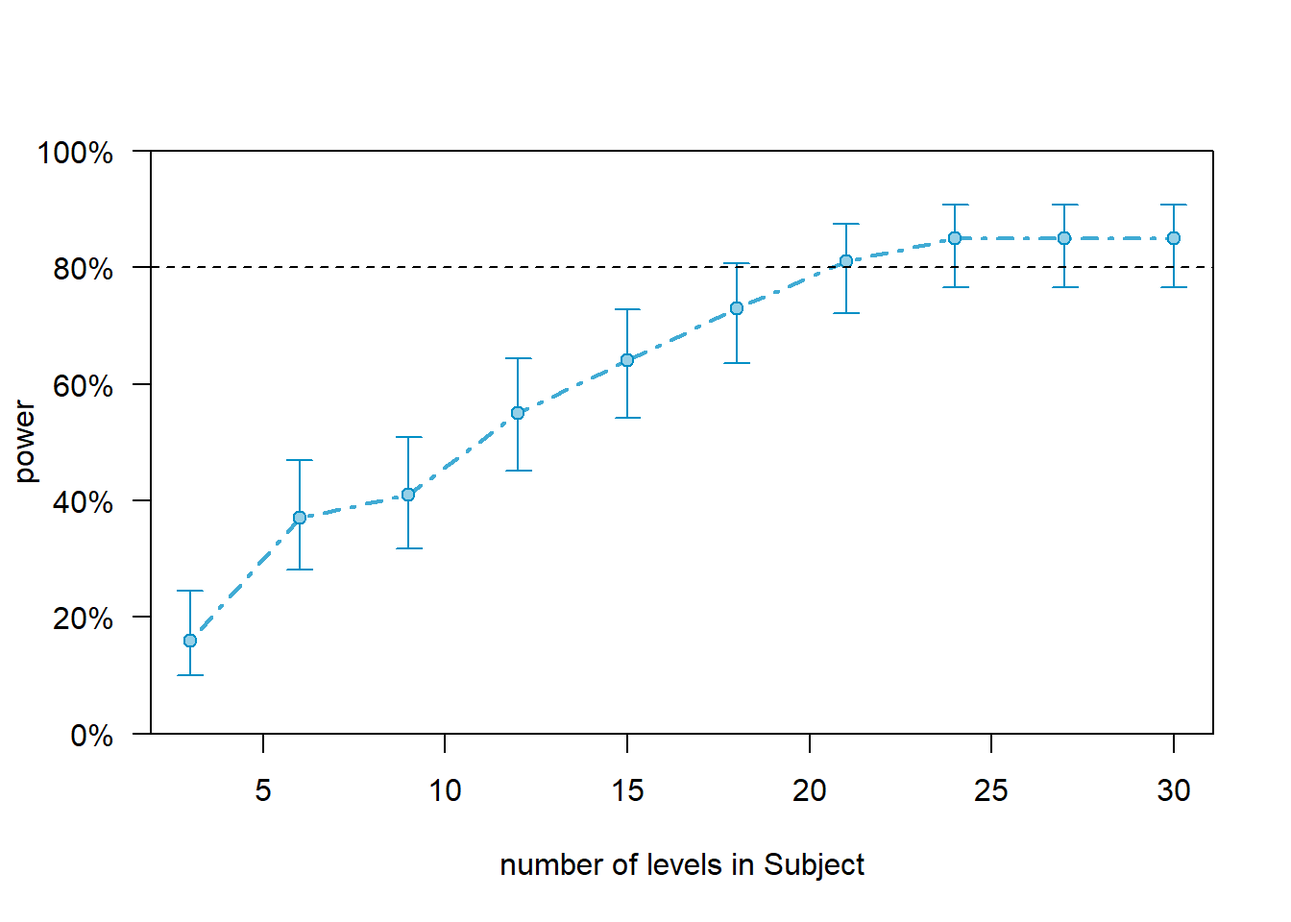
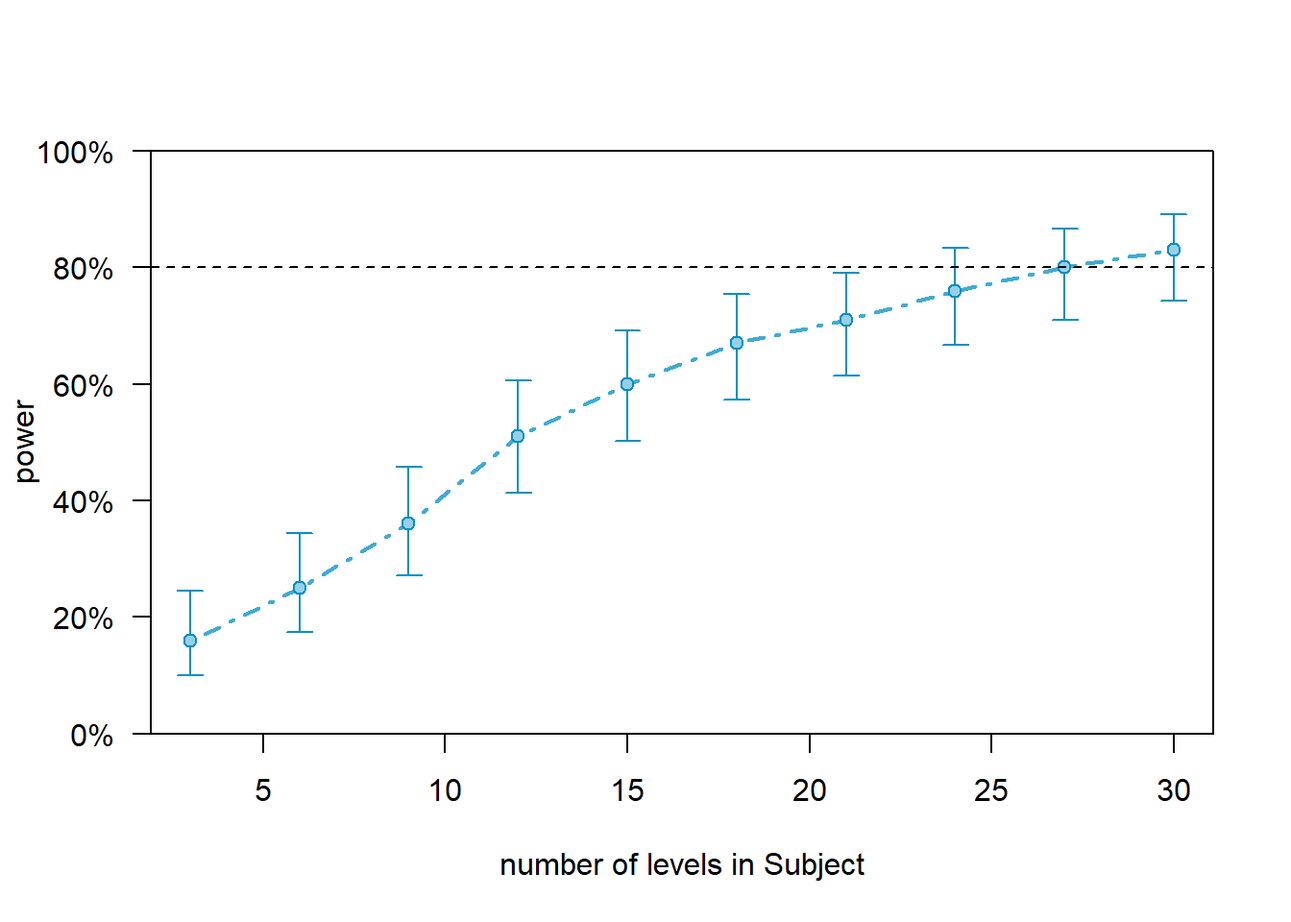
pwr and opening updates

diff --git a/pwr.html b/pwr.html
@@ -14,7 +14,7 @@
 
 <meta name="author" content="Martin Schweinberger" />
 
-<meta name="date" content="2021-04-29" />
+<meta name="date" content="2021-04-30" />
 
 <title>Power Analysis in R</title>
 
@@ -558,7 +558,7 @@ div.tocify {
 
 <h1 class="title toc-ignore">Power Analysis in R</h1>
 <h4 class="author">Martin Schweinberger</h4>
-<h4 class="date">2021-04-29</h4>
+<h4 class="date">2021-04-30</h4>
 
 </div>
 
@@ -602,7 +602,7 @@ div.tocify {
 </div>
 <div id="preparation-and-session-set-up" class="section level2 unnumbered">
 <h2>Preparation and session set up</h2>
-<p>This tutorial is based on R. If you have not installed R or are new to it, you will find an introduction to and more information how to use R <a href="https://slcladal.github.io/intror.html">here</a>. For this tutorials, we need to install certain <em>packages</em> from an R <em>library</em> so that the scripts shown below are executed without errors. Before turning to the code below, please install the packages by running the code below this paragraph. If you have already installed the packages mentioned below, then you can skip ahead and ignore this section. To install the necessary packages, simply run the following code - it may take some time (between 1 and 5 minutes to install all of the libraries so you do not need to worry if it takes some time).</p>
+<p>This tutorial is based on R. If you have not installed R or are new to it, you will find an introduction to and more information how to use R <a href="https://slcladal.github.io/intror.html">here</a>. For this tutorials, we need to install certain <em>packages</em> into the R <em>library</em> on your computer so that the scripts shown below are executed without errors. Before turning to the code below, please install the packages by running the code below this paragraph. If you have already installed the packages mentioned below, then you can skip ahead and ignore this section. To install the necessary packages, simply run the following code - it may take some time (between 1 and 5 minutes to install all of the libraries so you do not need to worry if it takes some time).</p>
 <pre class="r"><code># set options
 options(stringsAsFactors = F)         # no automatic data transformation
 options(&quot;scipen&quot; = 100, &quot;digits&quot; = 4) # suppress math annotation
@@ -737,8 +737,8 @@ simdat &lt;- data.frame(
   dplyr::mutate_if(is.character, factor) %&gt;%
   dplyr::rename(AOI = 4)</code></pre>
 <p>The data looks like this.</p>
-<div id="htmlwidget-9e1553b7c56c5b3041f2" style="width:100%;height:auto;" class="datatables html-widget"></div>
-<script type="application/json" data-for="htmlwidget-9e1553b7c56c5b3041f2">{"x":{"filter":"none","caption":"<caption>Overview of the data set.<\/caption>","data":[["Sub1","Sub1","Sub1","Sub1","Sub1","Sub1","Sub1","Sub1","Sub1","Sub1","Sub2","Sub2","Sub2","Sub2","Sub2","Sub2","Sub2","Sub2","Sub2","Sub2","Sub3","Sub3","Sub3","Sub3","Sub3","Sub3","Sub3","Sub3","Sub3","Sub3","Sub4","Sub4","Sub4","Sub4","Sub4","Sub4","Sub4","Sub4","Sub4","Sub4","Sub5","Sub5","Sub5","Sub5","Sub5","Sub5","Sub5","Sub5","Sub5","Sub5","Sub6","Sub6","Sub6","Sub6","Sub6","Sub6","Sub6","Sub6","Sub6","Sub6","Sub7","Sub7","Sub7","Sub7","Sub7","Sub7","Sub7","Sub7","Sub7","Sub7","Sub8","Sub8","Sub8","Sub8","Sub8","Sub8","Sub8","Sub8","Sub8","Sub8","Sub9","Sub9","Sub9","Sub9","Sub9","Sub9","Sub9","Sub9","Sub9","Sub9","Sub10","Sub10","Sub10","Sub10","Sub10","Sub10","Sub10","Sub10","Sub10","Sub10","Sub1","Sub1","Sub1","Sub1","Sub1","Sub1","Sub1","Sub1","Sub1","Sub1","Sub2","Sub2","Sub2","Sub2","Sub2","Sub2","Sub2","Sub2","Sub2","Sub2","Sub3","Sub3","Sub3","Sub3","Sub3","Sub3","Sub3","Sub3","Sub3","Sub3","Sub4","Sub4","Sub4","Sub4","Sub4","Sub4","Sub4","Sub4","Sub4","Sub4","Sub5","Sub5","Sub5","Sub5","Sub5","Sub5","Sub5","Sub5","Sub5","Sub5","Sub6","Sub6","Sub6","Sub6","Sub6","Sub6","Sub6","Sub6","Sub6","Sub6","Sub7","Sub7","Sub7","Sub7","Sub7","Sub7","Sub7","Sub7","Sub7","Sub7","Sub8","Sub8","Sub8","Sub8","Sub8","Sub8","Sub8","Sub8","Sub8","Sub8","Sub9","Sub9","Sub9","Sub9","Sub9","Sub9","Sub9","Sub9","Sub9","Sub9","Sub10","Sub10","Sub10","Sub10","Sub10","Sub10","Sub10","Sub10","Sub10","Sub10"],["Control","Control","Control","Control","Control","Control","Control","Control","Control","Control","Control","Control","Control","Control","Control","Control","Control","Control","Control","Control","Control","Control","Control","Control","Control","Control","Control","Control","Control","Control","Control","Control","Control","Control","Control","Control","Control","Control","Control","Control","Control","Control","Control","Control","Control","Control","Control","Control","Control","Control","Control","Control","Control","Control","Control","Control","Control","Control","Control","Control","Control","Control","Control","Control","Control","Control","Control","Control","Control","Control","Control","Control","Control","Control","Control","Control","Control","Control","Control","Control","Control","Control","Control","Control","Control","Control","Control","Control","Control","Control","Control","Control","Control","Control","Control","Control","Control","Control","Control","Control","Test","Test","Test","Test","Test","Test","Test","Test","Test","Test","Test","Test","Test","Test","Test","Test","Test","Test","Test","Test","Test","Test","Test","Test","Test","Test","Test","Test","Test","Test","Test","Test","Test","Test","Test","Test","Test","Test","Test","Test","Test","Test","Test","Test","Test","Test","Test","Test","Test","Test","Test","Test","Test","Test","Test","Test","Test","Test","Test","Test","Test","Test","Test","Test","Test","Test","Test","Test","Test","Test","Test","Test","Test","Test","Test","Test","Test","Test","Test","Test","Test","Test","Test","Test","Test","Test","Test","Test","Test","Test","Test","Test","Test","Test","Test","Test","Test","Test","Test","Test"],["1","2","3","4","5","6","7","8","9","10","1","2","3","4","5","6","7","8","9","10","1","2","3","4","5","6","7","8","9","10","1","2","3","4","5","6","7","8","9","10","1","2","3","4","5","6","7","8","9","10","1","2","3","4","5","6","7","8","9","10","1","2","3","4","5","6","7","8","9","10","1","2","3","4","5","6","7","8","9","10","1","2","3","4","5","6","7","8","9","10","1","2","3","4","5","6","7","8","9","10","1","2","3","4","5","6","7","8","9","10","1","2","3","4","5","6","7","8","9","10","1","2","3","4","5","6","7","8","9","10","1","2","3","4","5","6","7","8","9","10","1","2","3","4","5","6","7","8","9","10","1","2","3","4","5","6","7","8","9","10","1","2","3","4","5","6","7","8","9","10","1","2","3","4","5","6","7","8","9","10","1","2","3","4","5","6","7","8","9","10","1","2","3","4","5","6","7","8","9","10"],["NotAOI","NotAOI","AOI","AOI","NotAOI","NotAOI","AOI","NotAOI","NotAOI","AOI","AOI","AOI","AOI","AOI","NotAOI","AOI","NotAOI","NotAOI","NotAOI","AOI","AOI","NotAOI","AOI","NotAOI","NotAOI","NotAOI","NotAOI","AOI","AOI","AOI","AOI","AOI","NotAOI","AOI","NotAOI","NotAOI","NotAOI","NotAOI","NotAOI","NotAOI","AOI","NotAOI","AOI","AOI","NotAOI","AOI","NotAOI","AOI","AOI","NotAOI","NotAOI","NotAOI","NotAOI","NotAOI","NotAOI","AOI","NotAOI","AOI","AOI","NotAOI","AOI","NotAOI","AOI","NotAOI","NotAOI","NotAOI","AOI","AOI","AOI","AOI","NotAOI","AOI","NotAOI","NotAOI","NotAOI","NotAOI","NotAOI","AOI","AOI","NotAOI","AOI","AOI","NotAOI","NotAOI","NotAOI","NotAOI","NotAOI","NotAOI","AOI","AOI","NotAOI","AOI","NotAOI","AOI","AOI","AOI","NotAOI","AOI","AOI","NotAOI","AOI","AOI","NotAOI","NotAOI","NotAOI","AOI","AOI","NotAOI","AOI","NotAOI","NotAOI","NotAOI","NotAOI","NotAOI","AOI","AOI","NotAOI","AOI","AOI","NotAOI","NotAOI","NotAOI","AOI","AOI","AOI","AOI","NotAOI","AOI","NotAOI","NotAOI","NotAOI","AOI","NotAOI","NotAOI","NotAOI","NotAOI","NotAOI","NotAOI","NotAOI","AOI","AOI","NotAOI","NotAOI","NotAOI","AOI","NotAOI","AOI","AOI","NotAOI","AOI","AOI","NotAOI","AOI","AOI","NotAOI","NotAOI","NotAOI","AOI","AOI","AOI","NotAOI","AOI","AOI","NotAOI","NotAOI","NotAOI","AOI","NotAOI","NotAOI","AOI","AOI","AOI","NotAOI","AOI","NotAOI","AOI","NotAOI","AOI","AOI","AOI","AOI","NotAOI","NotAOI","AOI","AOI","NotAOI","AOI","AOI","AOI","AOI","AOI","NotAOI","AOI","AOI","AOI","AOI","AOI","NotAOI","AOI","NotAOI"]],"container":"<table class=\"display\">\n  <thead>\n    <tr>\n      <th>Subject<\/th>\n      <th>Condition<\/th>\n      <th>Item<\/th>\n      <th>AOI<\/th>\n    <\/tr>\n  <\/thead>\n<\/table>","options":{"pageLength":10,"scrollX":true,"order":[],"autoWidth":false,"orderClasses":false}},"evals":[],"jsHooks":[]}</script>
+<div id="htmlwidget-5b7f6b2554b631cb2291" style="width:100%;height:auto;" class="datatables html-widget"></div>
+<script type="application/json" data-for="htmlwidget-5b7f6b2554b631cb2291">{"x":{"filter":"none","caption":"<caption>Overview of the data set.<\/caption>","data":[["Sub1","Sub1","Sub1","Sub1","Sub1","Sub1","Sub1","Sub1","Sub1","Sub1","Sub2","Sub2","Sub2","Sub2","Sub2","Sub2","Sub2","Sub2","Sub2","Sub2","Sub3","Sub3","Sub3","Sub3","Sub3","Sub3","Sub3","Sub3","Sub3","Sub3","Sub4","Sub4","Sub4","Sub4","Sub4","Sub4","Sub4","Sub4","Sub4","Sub4","Sub5","Sub5","Sub5","Sub5","Sub5","Sub5","Sub5","Sub5","Sub5","Sub5","Sub6","Sub6","Sub6","Sub6","Sub6","Sub6","Sub6","Sub6","Sub6","Sub6","Sub7","Sub7","Sub7","Sub7","Sub7","Sub7","Sub7","Sub7","Sub7","Sub7","Sub8","Sub8","Sub8","Sub8","Sub8","Sub8","Sub8","Sub8","Sub8","Sub8","Sub9","Sub9","Sub9","Sub9","Sub9","Sub9","Sub9","Sub9","Sub9","Sub9","Sub10","Sub10","Sub10","Sub10","Sub10","Sub10","Sub10","Sub10","Sub10","Sub10","Sub1","Sub1","Sub1","Sub1","Sub1","Sub1","Sub1","Sub1","Sub1","Sub1","Sub2","Sub2","Sub2","Sub2","Sub2","Sub2","Sub2","Sub2","Sub2","Sub2","Sub3","Sub3","Sub3","Sub3","Sub3","Sub3","Sub3","Sub3","Sub3","Sub3","Sub4","Sub4","Sub4","Sub4","Sub4","Sub4","Sub4","Sub4","Sub4","Sub4","Sub5","Sub5","Sub5","Sub5","Sub5","Sub5","Sub5","Sub5","Sub5","Sub5","Sub6","Sub6","Sub6","Sub6","Sub6","Sub6","Sub6","Sub6","Sub6","Sub6","Sub7","Sub7","Sub7","Sub7","Sub7","Sub7","Sub7","Sub7","Sub7","Sub7","Sub8","Sub8","Sub8","Sub8","Sub8","Sub8","Sub8","Sub8","Sub8","Sub8","Sub9","Sub9","Sub9","Sub9","Sub9","Sub9","Sub9","Sub9","Sub9","Sub9","Sub10","Sub10","Sub10","Sub10","Sub10","Sub10","Sub10","Sub10","Sub10","Sub10"],["Control","Control","Control","Control","Control","Control","Control","Control","Control","Control","Control","Control","Control","Control","Control","Control","Control","Control","Control","Control","Control","Control","Control","Control","Control","Control","Control","Control","Control","Control","Control","Control","Control","Control","Control","Control","Control","Control","Control","Control","Control","Control","Control","Control","Control","Control","Control","Control","Control","Control","Control","Control","Control","Control","Control","Control","Control","Control","Control","Control","Control","Control","Control","Control","Control","Control","Control","Control","Control","Control","Control","Control","Control","Control","Control","Control","Control","Control","Control","Control","Control","Control","Control","Control","Control","Control","Control","Control","Control","Control","Control","Control","Control","Control","Control","Control","Control","Control","Control","Control","Test","Test","Test","Test","Test","Test","Test","Test","Test","Test","Test","Test","Test","Test","Test","Test","Test","Test","Test","Test","Test","Test","Test","Test","Test","Test","Test","Test","Test","Test","Test","Test","Test","Test","Test","Test","Test","Test","Test","Test","Test","Test","Test","Test","Test","Test","Test","Test","Test","Test","Test","Test","Test","Test","Test","Test","Test","Test","Test","Test","Test","Test","Test","Test","Test","Test","Test","Test","Test","Test","Test","Test","Test","Test","Test","Test","Test","Test","Test","Test","Test","Test","Test","Test","Test","Test","Test","Test","Test","Test","Test","Test","Test","Test","Test","Test","Test","Test","Test","Test"],["1","2","3","4","5","6","7","8","9","10","1","2","3","4","5","6","7","8","9","10","1","2","3","4","5","6","7","8","9","10","1","2","3","4","5","6","7","8","9","10","1","2","3","4","5","6","7","8","9","10","1","2","3","4","5","6","7","8","9","10","1","2","3","4","5","6","7","8","9","10","1","2","3","4","5","6","7","8","9","10","1","2","3","4","5","6","7","8","9","10","1","2","3","4","5","6","7","8","9","10","1","2","3","4","5","6","7","8","9","10","1","2","3","4","5","6","7","8","9","10","1","2","3","4","5","6","7","8","9","10","1","2","3","4","5","6","7","8","9","10","1","2","3","4","5","6","7","8","9","10","1","2","3","4","5","6","7","8","9","10","1","2","3","4","5","6","7","8","9","10","1","2","3","4","5","6","7","8","9","10","1","2","3","4","5","6","7","8","9","10","1","2","3","4","5","6","7","8","9","10"],["NotAOI","NotAOI","NotAOI","AOI","NotAOI","AOI","AOI","NotAOI","AOI","NotAOI","NotAOI","NotAOI","NotAOI","NotAOI","NotAOI","AOI","AOI","AOI","NotAOI","AOI","NotAOI","AOI","AOI","AOI","NotAOI","NotAOI","NotAOI","NotAOI","NotAOI","NotAOI","AOI","NotAOI","AOI","NotAOI","AOI","NotAOI","NotAOI","NotAOI","NotAOI","NotAOI","AOI","AOI","AOI","NotAOI","AOI","AOI","NotAOI","AOI","NotAOI","AOI","NotAOI","NotAOI","AOI","NotAOI","NotAOI","NotAOI","NotAOI","AOI","AOI","NotAOI","NotAOI","AOI","AOI","AOI","AOI","NotAOI","AOI","NotAOI","AOI","AOI","NotAOI","AOI","NotAOI","NotAOI","AOI","NotAOI","AOI","AOI","AOI","AOI","AOI","NotAOI","AOI","NotAOI","AOI","AOI","NotAOI","AOI","NotAOI","NotAOI","AOI","NotAOI","NotAOI","AOI","NotAOI","NotAOI","AOI","AOI","NotAOI","NotAOI","NotAOI","NotAOI","AOI","AOI","NotAOI","AOI","NotAOI","AOI","NotAOI","AOI","NotAOI","NotAOI","NotAOI","NotAOI","NotAOI","NotAOI","AOI","AOI","AOI","NotAOI","NotAOI","NotAOI","NotAOI","AOI","AOI","AOI","NotAOI","AOI","AOI","NotAOI","AOI","NotAOI","NotAOI","AOI","NotAOI","AOI","AOI","AOI","NotAOI","AOI","AOI","AOI","NotAOI","NotAOI","NotAOI","NotAOI","AOI","AOI","NotAOI","AOI","AOI","AOI","NotAOI","NotAOI","AOI","AOI","AOI","AOI","AOI","AOI","AOI","AOI","AOI","NotAOI","AOI","NotAOI","AOI","AOI","AOI","AOI","AOI","AOI","AOI","AOI","NotAOI","AOI","AOI","AOI","AOI","AOI","AOI","AOI","AOI","AOI","NotAOI","AOI","NotAOI","AOI","NotAOI","AOI","AOI","NotAOI","AOI","NotAOI","AOI","AOI","AOI","NotAOI","NotAOI","NotAOI"]],"container":"<table class=\"display\">\n  <thead>\n    <tr>\n      <th>Subject<\/th>\n      <th>Condition<\/th>\n      <th>Item<\/th>\n      <th>AOI<\/th>\n    <\/tr>\n  <\/thead>\n<\/table>","options":{"pageLength":10,"scrollX":true,"order":[],"autoWidth":false,"orderClasses":false}},"evals":[],"jsHooks":[]}</script>
 </div>
 </div>
 <div id="post-hoc-power-analysis" class="section level1">
@@ -763,26 +763,28 @@ summary(m1)</code></pre>
 ##    Data: simdat
 ## 
 ##      AIC      BIC   logLik deviance df.resid 
-##    284.5    297.7   -138.2    276.5      196 
+##    279.0    292.1   -135.5    271.0      196 
 ## 
 ## Scaled residuals: 
 ##     Min      1Q  Median      3Q     Max 
-## -1.0835 -0.9608  0.9230  0.9230  1.0408 
+## -1.2267 -0.8697 -0.6901  0.9611  1.4491 
 ## 
 ## Random effects:
 ##  Groups  Name        Variance  Std.Dev. 
-##  Subject (Intercept) 3.972e-14 1.993e-07
-##  Item    (Intercept) 0.000e+00 0.000e+00
+##  Subject (Intercept) 9.692e-02 3.113e-01
+##  Item    (Intercept) 1.063e-10 1.031e-05
 ## Number of obs: 200, groups:  Subject, 10; Item, 10
 ## 
 ## Fixed effects:
-##               Estimate Std. Error z value Pr(&gt;|z|)
-## (Intercept)     0.1603     0.2006   0.799    0.424
-## ConditionTest  -0.2404     0.2834  -0.848    0.396
+##               Estimate Std. Error z value Pr(&gt;|z|)  
+## (Intercept)     0.1640     0.2257   0.727   0.4674  
+## ConditionTest  -0.6222     0.2909  -2.139   0.0324 *
+## ---
+## Signif. codes:  0 &#39;***&#39; 0.001 &#39;**&#39; 0.01 &#39;*&#39; 0.05 &#39;.&#39; 0.1 &#39; &#39; 1
 ## 
 ## Correlation of Fixed Effects:
 ##             (Intr)
-## ConditinTst -0.708
+## ConditinTst -0.629
 ## optimizer (Nelder_Mead) convergence code: 0 (OK)
 ## boundary (singular) fit: see ?isSingular</code></pre>
 <p>We now check the effect sizes of the predictors in the model. We can do this by displaying the results of the model using the <code>tab_model</code> function from the <code>sjPlot</code> package.</p>
@@ -818,13 +820,13 @@ p
 (Intercept)
 </td>
 <td style=" padding:0.2cm; text-align:left; vertical-align:top; text-align:center;  ">
-1.17
+1.18
 </td>
 <td style=" padding:0.2cm; text-align:left; vertical-align:top; text-align:center;  ">
-0.79 – 1.74
+0.76 – 1.83
 </td>
 <td style=" padding:0.2cm; text-align:left; vertical-align:top; text-align:center;  ">
-0.424
+0.467
 </td>
 </tr>
 <tr>
@@ -832,13 +834,13 @@ p
 Condition [Test]
 </td>
 <td style=" padding:0.2cm; text-align:left; vertical-align:top; text-align:center;  ">
-0.79
+0.54
 </td>
 <td style=" padding:0.2cm; text-align:left; vertical-align:top; text-align:center;  ">
-0.45 – 1.37
+0.30 – 0.95
 </td>
 <td style=" padding:0.2cm; text-align:left; vertical-align:top; text-align:center;  ">
-0.396
+<strong>0.032</strong>
 </td>
 </tr>
 <tr>
@@ -858,7 +860,7 @@ Random Effects
 τ<sub>00</sub> <sub>Subject</sub>
 </td>
 <td style=" padding:0.2cm; text-align:left; vertical-align:top; padding-top:0.1cm; padding-bottom:0.1cm; text-align:left;" colspan="3">
-0.00
+0.10
 </td>
 <tr>
 <td style=" padding:0.2cm; text-align:left; vertical-align:top; text-align:left; padding-top:0.1cm; padding-bottom:0.1cm;">
@@ -866,6 +868,13 @@ Random Effects
 </td>
 <td style=" padding:0.2cm; text-align:left; vertical-align:top; padding-top:0.1cm; padding-bottom:0.1cm; text-align:left;" colspan="3">
 0.00
+</td>
+<tr>
+<td style=" padding:0.2cm; text-align:left; vertical-align:top; text-align:left; padding-top:0.1cm; padding-bottom:0.1cm;">
+ICC
+</td>
+<td style=" padding:0.2cm; text-align:left; vertical-align:top; padding-top:0.1cm; padding-bottom:0.1cm; text-align:left;" colspan="3">
+0.03
 </td>
 <tr>
 <td style=" padding:0.2cm; text-align:left; vertical-align:top; text-align:left; padding-top:0.1cm; padding-bottom:0.1cm;">
@@ -894,7 +903,7 @@ Observations
 Marginal R<sup>2</sup> / Conditional R<sup>2</sup>
 </td>
 <td style=" padding:0.2cm; text-align:left; vertical-align:top; padding-top:0.1cm; padding-bottom:0.1cm; text-align:left;" colspan="3">
-0.004 / NA
+0.028 / 0.056
 </td>
 </tr>
 </table>
@@ -914,10 +923,10 @@ rsim0 &lt;- powerSim(m1, fixed(&quot;ConditionTest&quot;, &quot;z&quot;), nsim=1
 <pre class="r"><code># inspect results
 rsim0</code></pre>
 <pre><code>## Power for predictor &#39;ConditionTest&#39;, (95% confidence interval):
-##       18.00% (11.03, 26.95)
+##       59.00% (48.71, 68.74)
 ## 
 ## Test: z-test
-##       Effect size for ConditionTest is -0.24
+##       Effect size for ConditionTest is -0.62
 ## 
 ## Based on 100 simulations, (1 warning, 0 errors)
 ## alpha = 0.05, nrow = 200
@@ -925,21 +934,26 @@ rsim0</code></pre>
 ## Time elapsed: 0 h 0 m 18 s
 ## 
 ## nb: result might be an observed power calculation</code></pre>
-<p>The results of the power analysis show that, given the data at hand, the model would have detected the effect of Conidition:Test with a probability of 18 percent. However, and as stated above, the results of such post-hoc power calculations (where the target effect size comes from the data) give misleading results (<span class="citation">Hoenig and Heisey (<a href="#ref-hoenig2001abuse" role="doc-biblioref">2001</a>)</span>) and should thus be treated with extreme care!</p>
+<p>The results of the power analysis show that, given the data at hand, the model would have detected the effect of Conidition:Test with a probability of 59 percent. However, and as stated above, the results of such post-hoc power calculations (where the target effect size comes from the data) give misleading results (<span class="citation">Hoenig and Heisey (<a href="#ref-hoenig2001abuse" role="doc-biblioref">2001</a>)</span>) and should thus be treated with extreme care!</p>
 </div>
 <div id="power-analysis-of-set-effects" class="section level1">
 <h1><span class="header-section-number">2</span> Power Analysis of Set Effects</h1>
-<p>While the effect of Condidition:Test is rather small (given the small number of subjects and items and given the small effect size, we would thus not be surprised that out model is not very accurate in detecting this effect), the target accuracy of finding an effect that one is interested in is commonly 80 percent (see <span class="citation">Field, Miles, and Field (<a href="#ref-field2012discovering" role="doc-biblioref">2012</a>)</span>, <span class="citation">Green and MacLeod (<a href="#ref-green2016simr" role="doc-biblioref">2016</a>)</span>). The accuracy (i.e., the probability of finding an effect) depends on three main factors:</p>
+<p>While the effect of Condidition:Test is rather small (given the small number of subjects and items, the small effect size, and the variability in the effect and we would thus not be surprised that out model is not very accurate in detecting this effect), the target accuracy of finding an effect that one is interested in is commonly 80 percent (see <span class="citation">Field, Miles, and Field (<a href="#ref-field2012discovering" role="doc-biblioref">2012</a>)</span>, <span class="citation">Green and MacLeod (<a href="#ref-green2016simr" role="doc-biblioref">2016</a>)</span>). The accuracy (i.e., the probability of finding an effect) depends on three main factors:</p>
 <ul>
 <li>the size of the effect (bigger effects are easier to detect)</li>
 <li>the variability of the effect (less variability makes it easier to detect an effect), and</li>
-<li>the sample size (the bigger the sample size, the easier it is to detect an effect).</li>
+<li>the sample size (the bigger the sample size, the easier it is to detect an effect);
+<ul>
+<li>number of subjects/participants</li>
+<li>number of items/questions</li>
+<li>number of observations per item within subjects/participants</li>
+</ul></li>
 </ul>
 <p>We will now check if the sample size is sufficient to detect a small effect (Cohen’s d 0.2). According to <span class="citation">Chen, Cohen, and Chen (<a href="#ref-chen2010big" role="doc-biblioref">2010</a>)</span> odds ratios of 1.68, 3.47, and 6.71 are equivalent to Cohen’s d = 0.2 (small), 0.5 (medium), and 0.8 (large) - the traditional scale is 0.2 for a small, 0.5 for medium sized, and 0.8 for a large or strong effect. We need to determine the odds ratios of the fixed effects and then convert them into Cohen’s d values for which we have associations between traditional denominations (small, medium, and large) and effect sife values.</p>
 <pre class="r"><code>estimatesfixedeffects &lt;- fixef(m1)
 exp(estimatesfixedeffects)</code></pre>
 <pre><code>##   (Intercept) ConditionTest 
-##     1.1739130     0.7863248</code></pre>
+##       1.17826       0.53678</code></pre>
 <p>We can see that the effect is rather small which makes it very hard to detect an effect. We will now change the size of the effect of ConditionTest to represent a truly <em>small</em> effect, i.e. on the brink of being noise but being just strong enough to be considered small. In other words, we will set the effect so that its odds ratio is exactly 1.68.</p>
 <pre class="r"><code># set seed for replicability
 set.seed(12345)
@@ -948,7 +962,7 @@ fixef(m1)[&quot;ConditionTest&quot;] &lt;- 0.519
 estimatesfixedeffects &lt;- fixef(m1)
 exp(estimatesfixedeffects)</code></pre>
 <pre><code>##   (Intercept) ConditionTest 
-##      1.173913      1.680346</code></pre>
+##      1.178260      1.680346</code></pre>
 <p>Now we can test if the sample size of the model is sufficient to find a small effect.</p>
 <pre class="r"><code># set seed for replicability
 set.seed(12345)
@@ -958,16 +972,16 @@ rsim1 &lt;- powerSim(m1, fixed(&quot;ConditionTest&quot;, &quot;z&quot;), nsim=1
 <pre class="r"><code># show results
 rsim1</code></pre>
 <pre><code>## Power for predictor &#39;ConditionTest&#39;, (95% confidence interval):
-##       49.00% (38.86, 59.20)
+##       50.00% (39.83, 60.17)
 ## 
 ## Test: z-test
 ##       Effect size for ConditionTest is 0.52
 ## 
-## Based on 100 simulations, (1 warning, 0 errors)
+## Based on 100 simulations, (0 warnings, 0 errors)
 ## alpha = 0.05, nrow = 200
 ## 
-## Time elapsed: 0 h 0 m 16 s</code></pre>
-<p>The power analysis shows that the data is sufficient to detect a small effect for Condition:Test with 49 percent accuracy.</p>
+## Time elapsed: 0 h 0 m 17 s</code></pre>
+<p>The power analysis shows that the data is sufficient to detect a small effect for Condition:Test with 50 percent accuracy.</p>
 </div>
 <div id="power-analysis-of-extended-data" class="section level1">
 <h1><span class="header-section-number">3</span> Power Analysis of Extended Data</h1>
@@ -980,7 +994,7 @@ rsim2 &lt;- powerSim(m2, fixed(&quot;ConditionTest&quot;, &quot;z&quot;), nsim=1
 <pre class="r"><code># show results
 rsim2</code></pre>
 <pre><code>## Power for predictor &#39;ConditionTest&#39;, (95% confidence interval):
-##       82.00% (73.05, 88.97)
+##       79.00% (69.71, 86.51)
 ## 
 ## Test: z-test
 ##       Effect size for ConditionTest is 0.52
@@ -988,8 +1002,8 @@ rsim2</code></pre>
 ## Based on 100 simulations, (1 warning, 0 errors)
 ## alpha = 0.05, nrow = 600
 ## 
-## Time elapsed: 0 h 0 m 28 s</code></pre>
-<p>By increasing the number of items to 30, we would now be able to detect a small effect (d=.2) with an accuracy of 82 percent. This means that we would have to add more items as 30 is not yet sufficient.</p>
+## Time elapsed: 0 h 0 m 29 s</code></pre>
+<p>By increasing the number of items to 30, we would now be able to detect a small effect (d=.2) with an accuracy of 79 percent. This means that we would have to add more items as 30 is not yet sufficient.</p>
 </div>
 <div id="power-analysis-for-ranges" class="section level1">
 <h1><span class="header-section-number">4</span> Power Analysis for Ranges</h1>
@@ -1000,18 +1014,18 @@ rsim2</code></pre>
 print(pc2)</code></pre>
 <pre><code>## Power for predictor &#39;ConditionTest&#39;, (95% confidence interval),
 ## by number of levels in Item:
-##       3: 18.00% (11.03, 26.95) - 60 rows
-##       6: 36.00% (26.64, 46.21) - 120 rows
-##       9: 41.00% (31.26, 51.29) - 180 rows
-##      12: 56.00% (45.72, 65.92) - 240 rows
-##      15: 61.00% (50.73, 70.60) - 300 rows
-##      18: 63.00% (52.76, 72.44) - 360 rows
-##      21: 72.00% (62.13, 80.52) - 420 rows
+##       3: 19.00% (11.84, 28.07) - 60 rows
+##       6: 29.00% (20.36, 38.93) - 120 rows
+##       9: 39.00% (29.40, 49.27) - 180 rows
+##      12: 49.00% (38.86, 59.20) - 240 rows
+##      15: 59.00% (48.71, 68.74) - 300 rows
+##      18: 69.00% (58.97, 77.87) - 360 rows
+##      21: 70.00% (60.02, 78.76) - 420 rows
 ##      24: 75.00% (65.34, 83.12) - 480 rows
-##      27: 79.00% (69.71, 86.51) - 540 rows
-##      30: 85.00% (76.47, 91.35) - 600 rows
+##      27: 82.00% (73.05, 88.97) - 540 rows
+##      30: 86.00% (77.63, 92.13) - 600 rows
 ## 
-## Time elapsed: 0 h 2 m 47 s</code></pre>
+## Time elapsed: 0 h 3 m 0 s</code></pre>
 <p>In addition, we can plot the results as follows:</p>
 <pre class="r"><code>plot(pc2)</code></pre>
 <p><img src="pwr_files/figure-html/pwr17-1.png" width="672" /></p>
@@ -1025,17 +1039,17 @@ print(pc3)</code></pre>
 <pre><code>## Power for predictor &#39;ConditionTest&#39;, (95% confidence interval),
 ## by number of levels in Subject:
 ##       3: 16.00% ( 9.43, 24.68) - 60 rows
-##       6: 37.00% (27.56, 47.24) - 120 rows
-##       9: 41.00% (31.26, 51.29) - 180 rows
-##      12: 55.00% (44.73, 64.97) - 240 rows
-##      15: 64.00% (53.79, 73.36) - 300 rows
-##      18: 73.00% (63.20, 81.39) - 360 rows
-##      21: 81.00% (71.93, 88.16) - 420 rows
-##      24: 85.00% (76.47, 91.35) - 480 rows
-##      27: 85.00% (76.47, 91.35) - 540 rows
-##      30: 85.00% (76.47, 91.35) - 600 rows
+##       6: 25.00% (16.88, 34.66) - 120 rows
+##       9: 36.00% (26.64, 46.21) - 180 rows
+##      12: 51.00% (40.80, 61.14) - 240 rows
+##      15: 60.00% (49.72, 69.67) - 300 rows
+##      18: 67.00% (56.88, 76.08) - 360 rows
+##      21: 71.00% (61.07, 79.64) - 420 rows
+##      24: 76.00% (66.43, 83.98) - 480 rows
+##      27: 80.00% (70.82, 87.33) - 540 rows
+##      30: 83.00% (74.18, 89.77) - 600 rows
 ## 
-## Time elapsed: 0 h 2 m 45 s</code></pre>
+## Time elapsed: 0 h 2 m 50 s</code></pre>
 <p>Again, we can also visualize the results.</p>
 <pre class="r"><code># visualize results
 plot(pc3) </code></pre>
@@ -1050,11 +1064,11 @@ pc4 &lt;- powerCurve(m4, fixed(&quot;ConditionTest&quot;, &quot;z&quot;), within
 print(pc4)</code></pre>
 <pre><code>## Power for predictor &#39;ConditionTest&#39;, (95% confidence interval),
 ## by number of observations within Item+Subject:
-##       5: 78.00% (68.61, 85.67) - 500 rows
+##       5: 82.00% (73.05, 88.97) - 500 rows
 ##      10: 99.00% (94.55, 99.97) - 1000 rows
 ##      15: 100.0% (96.38, 100.0) - 1500 rows
 ## 
-## Time elapsed: 0 h 1 m 47 s</code></pre>
+## Time elapsed: 0 h 1 m 53 s</code></pre>
 <pre class="r"><code># show results
 plot(pc4)</code></pre>
 <p><img src="pwr_files/figure-html/pwr23-1.png" width="672" /></p>
@@ -1062,7 +1076,7 @@ plot(pc4)</code></pre>
 </div>
 <div id="citation-session-info" class="section level1 unnumbered">
 <h1>Citation &amp; Session Info</h1>
-<p>Schweinberger, Martin. 2021. <em>Power Analysis in R</em>. Brisbane: The University of Queensland. url: <a href="https://slcladal.github.io/clust.html" class="uri">https://slcladal.github.io/clust.html</a> (Version 2021.04.29).</p>
+<p>Schweinberger, Martin. 2021. <em>Power Analysis in R</em>. Brisbane: The University of Queensland. url: <a href="https://slcladal.github.io/clust.html" class="uri">https://slcladal.github.io/clust.html</a> (Version 2021.04.30).</p>
 <pre><code>@manual{schweinberger2021pwr,
   author = {Schweinberger, Martin},
   title = {Power Analysis in R},
@@ -1070,7 +1084,7 @@ plot(pc4)</code></pre>
   year = {2021},
   organization = &quot;The University of Queensland, Australia. School of Languages and Cultures},
   address = {Brisbane},
-  edition = {2021.04.29}
+  edition = {2021.04.30}
 }</code></pre>
 <pre class="r"><code>sessionInfo()</code></pre>
 <pre><code>## R version 4.0.3 (2020-10-10)
